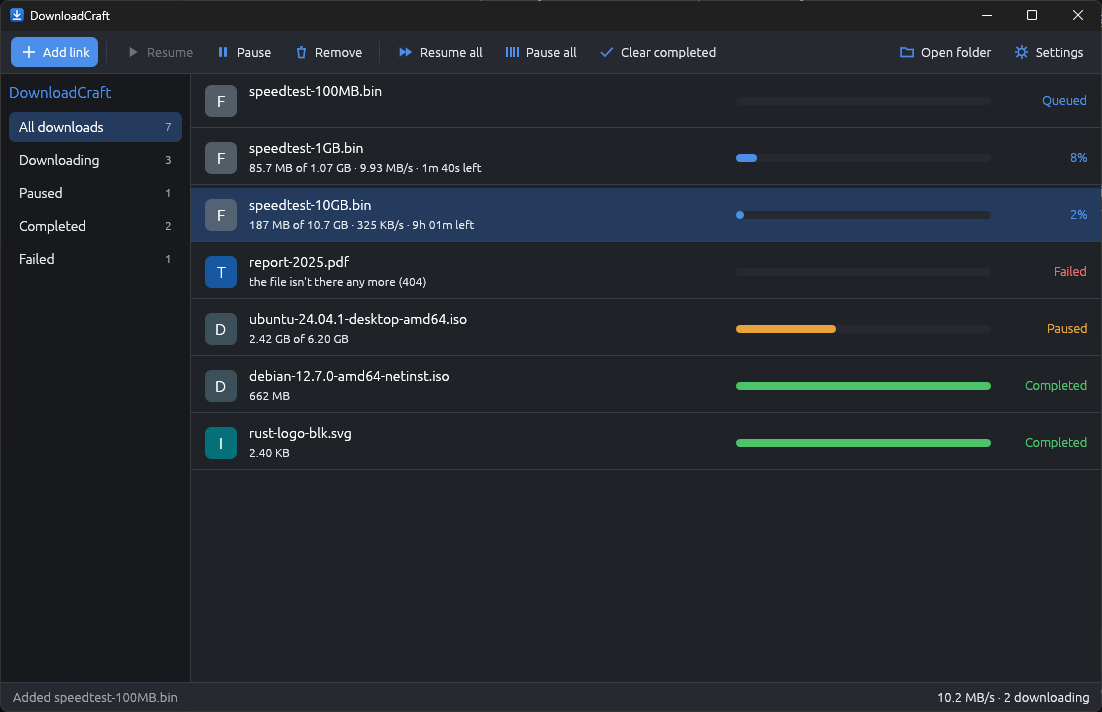
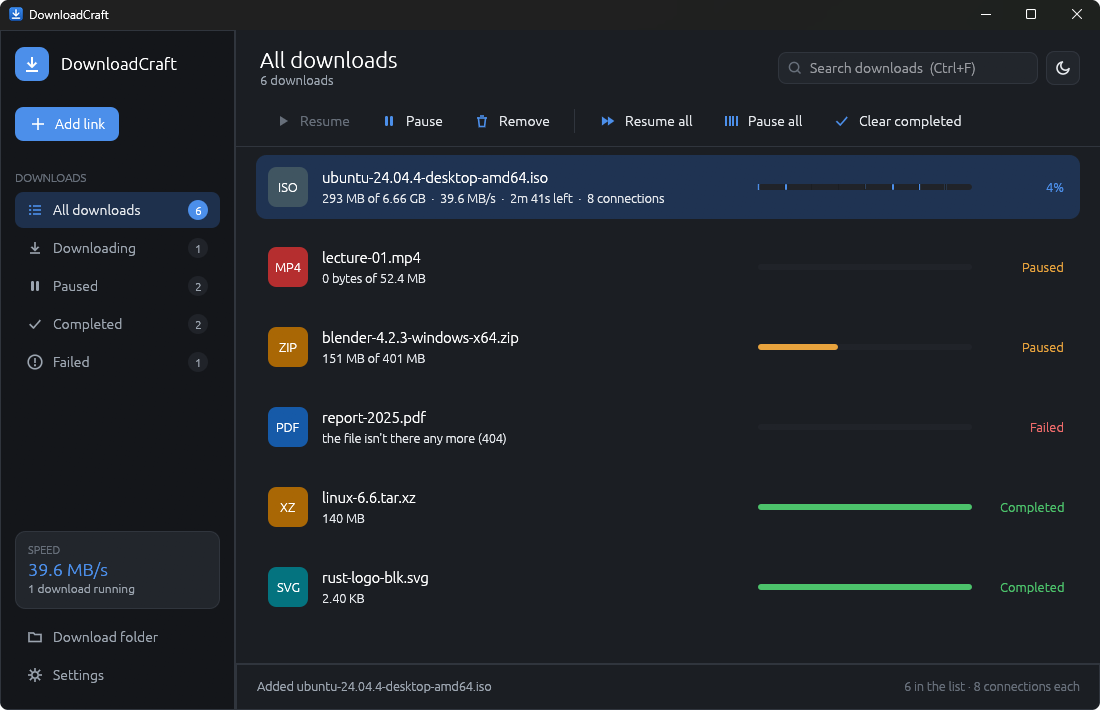
Docs: multi-part downloads, the theme, new screenshots and social preview
The screenshots are trimmed to the window (a pixel of the background along its edge cut off,
its rounded corners transparent), and the social preview is made from them.

diff --git a/README.md b/README.md
@@ -18,19 +18,26 @@
 </p>
 
 <p align="center">
-  <img src="docs/images/downloads.png" alt="DownloadCraft in dark mode: the toolbar with Add link, Resume, Pause, Remove, Resume all, Pause all and Clear completed; categories on the left with counts; two speed tests downloading with progress bars, speed and time left, one queued, a paused Ubuntu image at 2.42 GB of 6.20 GB, a failed link that answered 404, and two completed downloads" width="100%">
+  <img src="docs/images/downloads.png" alt="DownloadCraft in dark mode: a sidebar with Add link, the categories with counts, the total speed, the download folder and Settings; a header with search and the theme switch; an Ubuntu image downloading at 39.6 MB/s on 8 connections, its bar showing the 8 parts filling in, then paused, failed and completed downloads" width="100%">
 </p>
 
-<p align="center">
-  <img src="docs/images/add-link.png" alt="The Add link dialog in light mode with three links pasted: two direct links marked as such, and a magnet link marked as arriving in v0.3; the folder to save to, Start now, and Add 2 downloads" width="80%">
-  <br><sub><b>Paste several links at once.</b> Each is checked as you type, and links a later version handles say so.</sub>
-</p>
+<table>
+<tr>
+<td width="50%"><img src="docs/images/add-link.png" alt="The Add link dialog with four links pasted: two direct links shown with their file names, a magnet link marked as arriving in v0.3, the folder to save to, Start downloading now, and Add 2 downloads" width="100%"><p align="center"><sub><b>Paste several links at once.</b> Each is checked as you type, with the file name it will get.</sub></p></td>
+<td width="50%"><img src="docs/images/settings.png" alt="Settings in the light theme: Theme with Dark, Light and System, the download folder, downloads at once and connections per download" width="100%"><p align="center"><sub><b>Light, dark or the system's</b> theme, and how many connections each download may open.</sub></p></td>
+</tr>
+</table>
 
-## What works today (v0.1)
+## What works today
 
-- **Direct HTTP and HTTPS downloads** that **resume**: a pause, a dropped connection or quitting
-  the app keeps the partial file (`name.dcpart`), and Resume asks the server for the rest with a
-  byte range. Servers that don't take ranges start over, and the list says so.
+- **Multi-part downloads, as IDM does them**: a file is split into parts fetched on up to 16
+  connections at once (8 by default), each written straight into place. A connection that
+  finishes early takes over half of the biggest part left, and a connection the server turns away
+  hands its part to the others. The bar shows every part filling in. On cdn.kernel.org a 140 MB
+  file took 1.8 s on 8 connections against 23 s on one.
+- **Downloads that resume**: a pause, a dropped connection or quitting the app keeps the partial
+  file and a record of every part, and Resume asks the server for just the missing bytes. Servers
+  that don't take ranges get one connection and start over, and the list says so.
 - **A queue**: up to 3 downloads at once by default (1–16 in Settings); the rest wait their turn.
 - **Paste anywhere**: Ctrl+V in the window opens Add link with what you copied; several links,
   one per line, add as many downloads.
@@ -41,7 +48,9 @@
   finished one to open it.
 - **The list is kept** between runs (`downloads.json` in the app's data folder); a damaged file is
   set aside, never fatal.
-- **Light and dark**, following the system.
+- **Light, dark or the system's theme**, from the switch beside the search or Settings.
+- **Search** the list by name or link (Ctrl+F), and hover a row for Pause, Resume, Open folder and
+  Remove.
 - **Built for agents**: every action is a command with an id, shared by the toolbar, shortcuts,
   `--cmd` and the CLI (`downloadcraft-cli get <url>`, `downloadcraft-cli commands`).
 
@@ -70,10 +79,10 @@ cargo run -p downloadcraft
 ```
 
 ```bash
-cargo run -p downloadcraft-cli -- get https://example.com/file.zip --dir ./downloads
+cargo run -p downloadcraft-cli -- get https://example.com/file.zip --dir ./downloads --connections 8
 ```
 
-Keyboard: Ctrl+N add link, Ctrl+V paste a link, Space pause / resume, Delete remove,
+Keyboard: Ctrl+N add link, Ctrl+V paste a link, Ctrl+F search, Space pause / resume, Delete remove,
 ↑ ↓ move through the list, Enter open a finished file.
 
 ## How it's built

diff --git a/docs/gaps.md b/docs/gaps.md
@@ -1,19 +1,20 @@
 # Gaps
 
-Missing features and known problems in v0.1, most important first. Remove an item once it's done.
+Missing features and known problems, most important first. Remove an item once it's done.
 
 1. **Idle-read timeout.** ureq 3 has a timeout for the whole body, not per read, so a server that
    stops sending mid-file holds the transfer at 0 B/s until the user pauses (and a resume waits
    for that thread). Read through a socket with `set_read_timeout`, or wrap the reader.
-2. **Segmented downloads** (v0.2): N connections on N byte ranges into one preallocated file,
-   with the ranges saved so a resume continues each.
-3. **Interface text through craft-i18n** (`tl!` / `tf!` and the catalogs, as MailCraft); every
+2. **Interface text through craft-i18n** (`tl!` / `tf!` and the catalogs, as MailCraft); every
    string is English in code today.
-4. **Graphics setup and the log file** from MailCraft (`graphics.rs`, `logfile.rs`): the software
+3. **Graphics setup and the log file** from MailCraft (`graphics.rs`, `logfile.rs`): the software
    renderer fallback on Windows and a message box when the window can't open.
-5. **One instance per data folder** (`single_instance.rs`), so a second launch with a link hands
+4. **One instance per data folder** (`single_instance.rs`), so a second launch with a link hands
    it to the running window.
-6. **SonarCloud and Nix** (`sonarcloud.yml`, `nix.yml`, `flake.nix`) as the storytold apps have
+5. **SonarCloud and Nix** (`sonarcloud.yml`, `nix.yml`, `flake.nix`) as the storytold apps have
    them: SonarCloud needs the project and a `SONAR_TOKEN` secret set up by the owner.
-7. **Free-space check** before a start, and a clear message when the disk fills.
-8. **Fuzz targets** for `Content-Range`, `Content-Disposition` and `source::classify`.
+6. **Free-space check** before a start, and a clear message when the disk fills.
+7. **Fuzz targets** for `Content-Range`, `Content-Disposition` and `source::classify`.
+8. **A per-server memory of how many connections it allows.** A server that caps connections
+   (answering 429 or 503, or not at all) is coped with per download, by handing parts back; some
+   then slow the whole client down for a while, so learning the cap would help.

diff --git a/docs/architecture.md b/docs/architecture.md
@@ -33,6 +33,21 @@ depends on the network layer: the apps wire the two together.
 - A new run for a download waits for the previous run's thread to leave, so two threads never
   write one partial file. Removing a download deletes its partial file after the same wait.
 
+## Several connections (`crates/net/src/http/segmented.rs`)
+
+- A first start asks for `Range: bytes=0-`. A `206` with a size of at least 2 MiB means the file
+  can come in parts: it is split into up to `Prefs::connections` parts (at least 1 MiB each) and
+  the partial file is sized to the whole file. The first answer serves the first part; the other
+  connections ask for `bytes=start-end` each.
+- Each connection reserves the bytes it may write under a lock, then writes them at their offset.
+  A connection that finishes takes over the back half of the biggest part still going (never
+  closer than 1 MiB to where that part's connection is), so all of them stay busy to the end.
+- A connection that fails while others still work gives its part back and ends (servers that cap
+  connections answer 429 or 503, or leave the extra ones waiting: those wait 15 s). The last one
+  tries three times before the download fails.
+- Where every part is goes to `name.dcpart.parts` once a second and on stopping, so Resume carries
+  on each part. The record is checked to cover the file exactly once before it is trusted.
+
 ## The saved list (`apps/downloadcraft/src/store.rs`)
 
 `Session::save` → `downloads.json` (written beside and renamed into place) every couple of seconds

diff --git a/ROADMAP.md b/ROADMAP.md
@@ -1,6 +1,6 @@
 # Roadmap
 
-**Stage:** v0.1 — direct downloads that resume (2026-10-27). Each milestone below is a version,
+**Stage:** v0.1, with v0.2's multi-part downloads, a theme setting and the redesigned window (2026-10-27). Each milestone below is a version,
 named for what it adds. The ranked work list for the current milestone is
 [docs/gaps.md](docs/gaps.md).
 
@@ -9,15 +9,15 @@ named for what it adds. The ranked work list for the current milestone is
 | | |
 |---|---|
 | Crates | 4 libraries + 2 apps + xtask |
-| Commands | 15 (`downloadcraft-cli commands`) |
+| Commands | 17 (`downloadcraft-cli commands`) |
 | Platforms | Windows, macOS, Linux |
 
 ## Milestones
 
 1. **v0.1 — Direct downloads** ✅ HTTP(S) with resume, a queue, the server's file names, the
    saved list, categories, paste-to-add, light and dark, the CLI.
-2. **v0.2 — Faster** Segmented downloads: several connections per file, each on its own byte
-   range, merged in place (the IDM speed-up); per-download and global speed limits; an idle-read
+2. **v0.2 — Faster** ✅ (early) multi-part downloads on up to 16 connections, written in place and
+   resumed part by part. Still to do: per-download and global speed limits; an idle-read
    timeout and automatic retries with back-off; checking free disk space before starting.
 3. **v0.3 — Torrents** `.torrent` files and magnet links (BEP 3, 9, 10), DHT (BEP 5), web seeds
    (BEP 19), choosing files inside a torrent, seeding to a ratio. Permissive crates only (no

diff --git a/AGENTS.md b/AGENTS.md
@@ -59,7 +59,7 @@ A download manager that crashes loses hours of downloading. **This outranks feat
 | Layer | Crate | Job |
 |---|---|---|
 | L0 | `model` | downloads, sources (link classification), file names, jobs/events, sizes (pure, wasm) |
-| L3 | `net` | HTTP(S) transfers with resume, the worker threads (native only) |
+| L3 | `net` | HTTP(S) transfers with resume, on one connection or several (`http/segmented.rs`), the worker threads, the updater's downloads (native only) |
 | L4 | `engine` | sans-I/O `Session`: the list, the queue, the command registry |
 | L6 | `ui-egui` | egui front end |
 | apps | `downloadcraft`, `downloadcraft-cli` | binaries |

diff --git a/ATTRIBUTION.md b/ATTRIBUTION.md
@@ -31,7 +31,8 @@ icon. MIT OR Apache-2.0, like the code.
 | File | Source |
 |---|---|
 | `docs/images/downloads.png` | Screenshot of DownloadCraft (dark mode) |
-| `docs/images/add-link.png` | Screenshot of DownloadCraft (light mode, Add link dialog) |
+| `docs/images/add-link.png` | Screenshot of DownloadCraft (dark mode, Add link dialog) |
+| `docs/images/settings.png` | Screenshot of DownloadCraft (light mode, Settings) |
 | `docs/images/social-preview.png` | The app icon and `docs/images/downloads.png` on a gradient, set in Segoe UI (rendered, no font file included) |
 
 ## Interface icons
